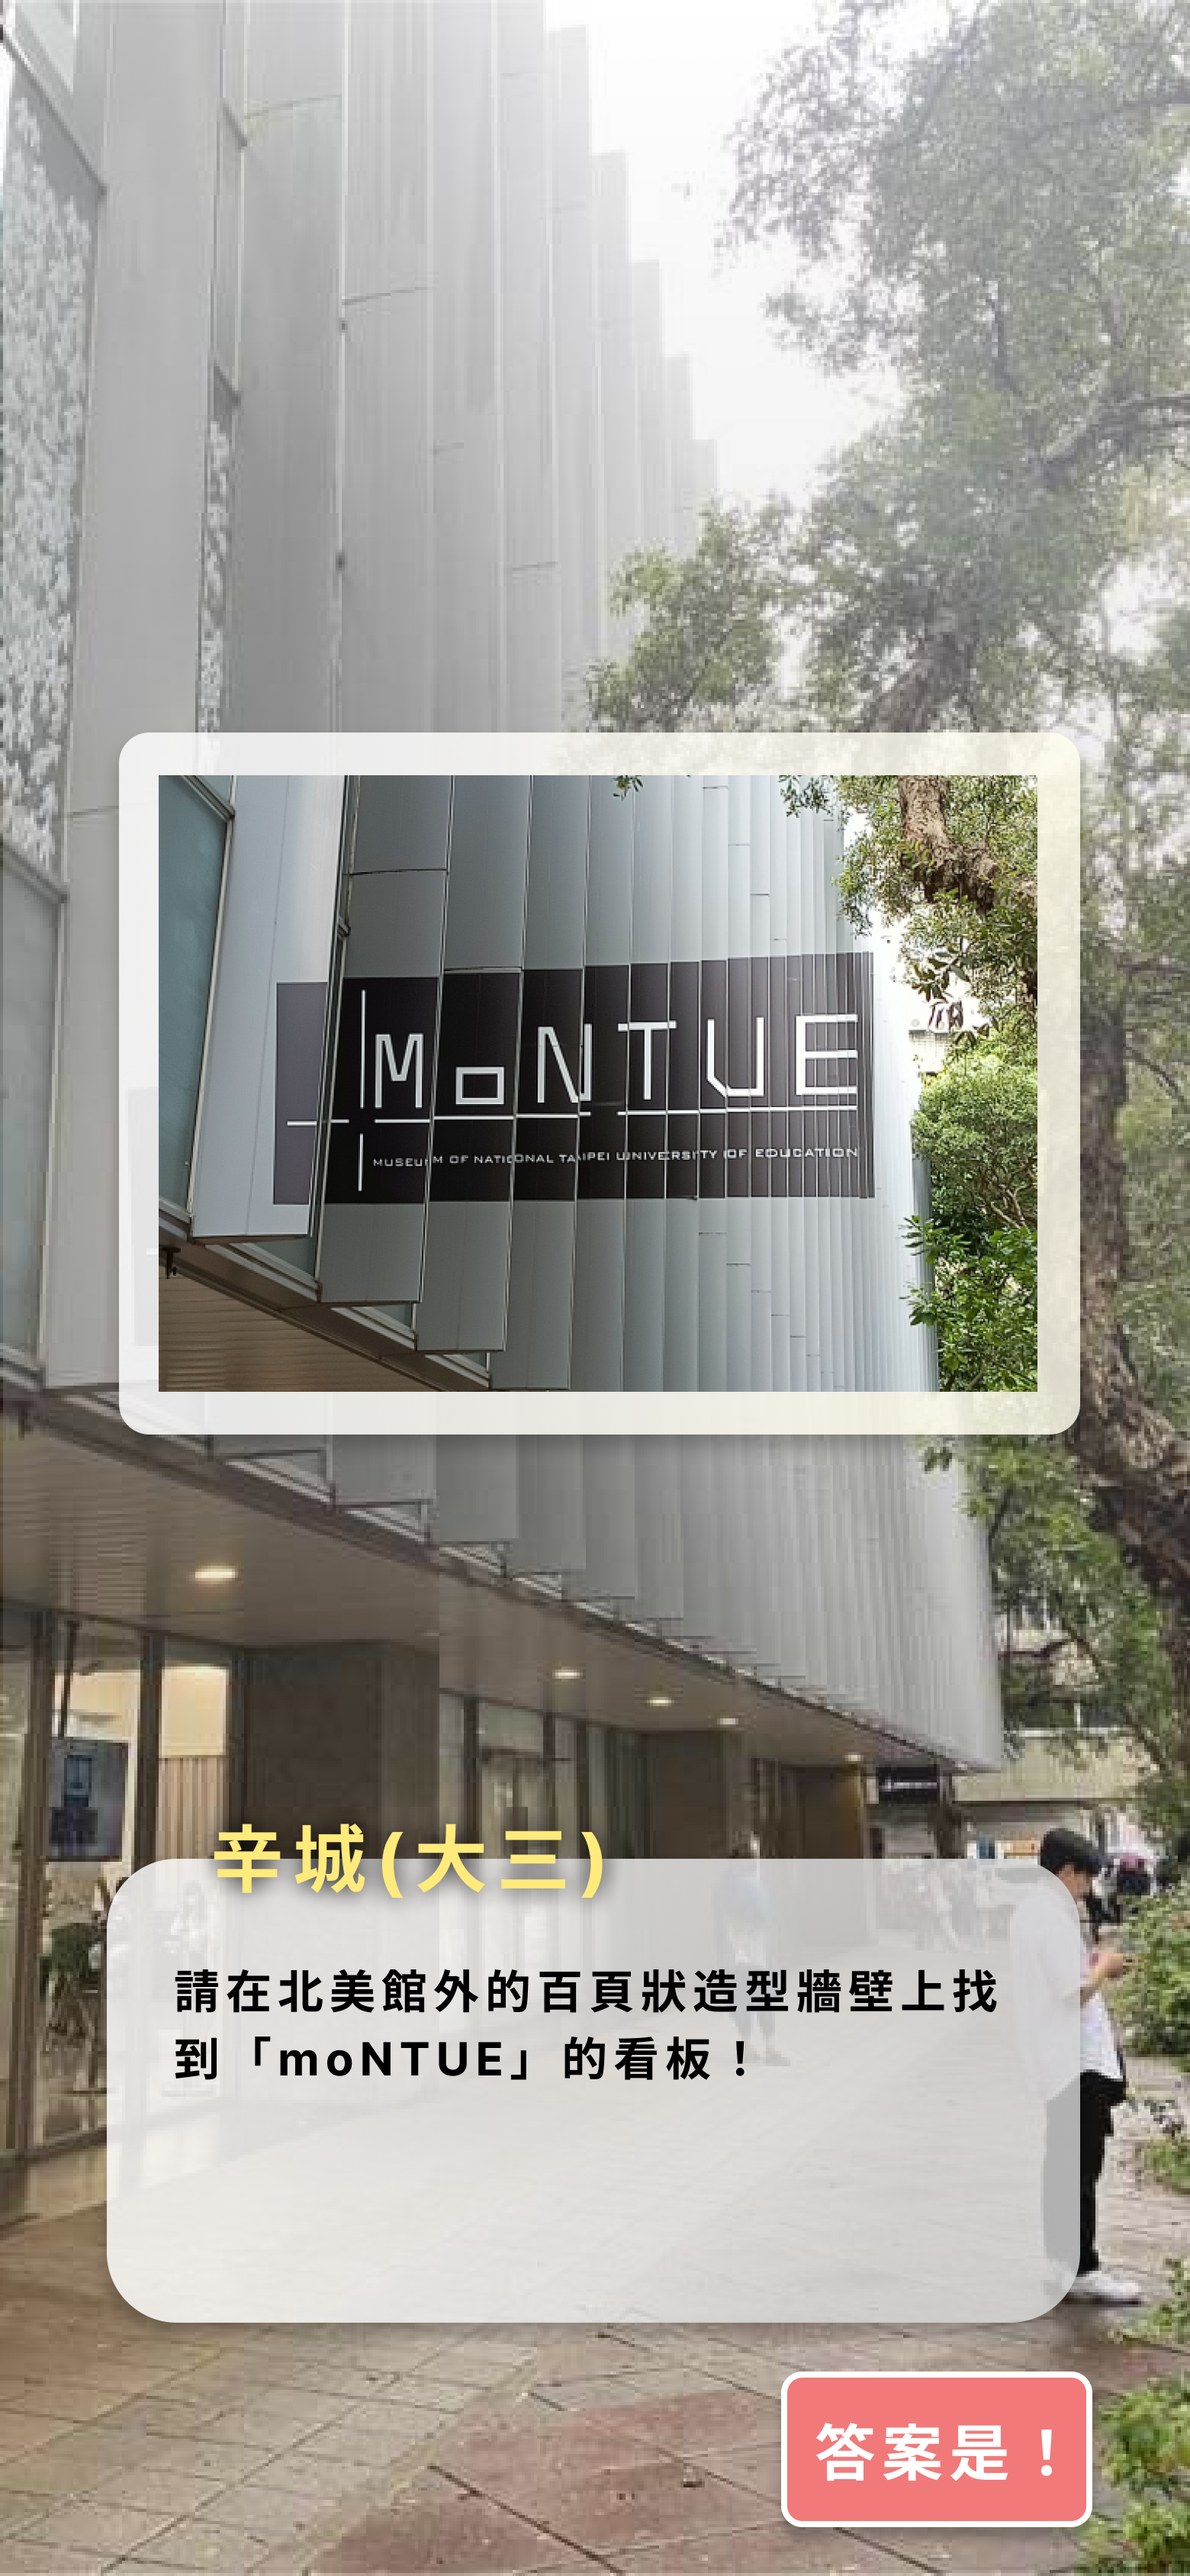
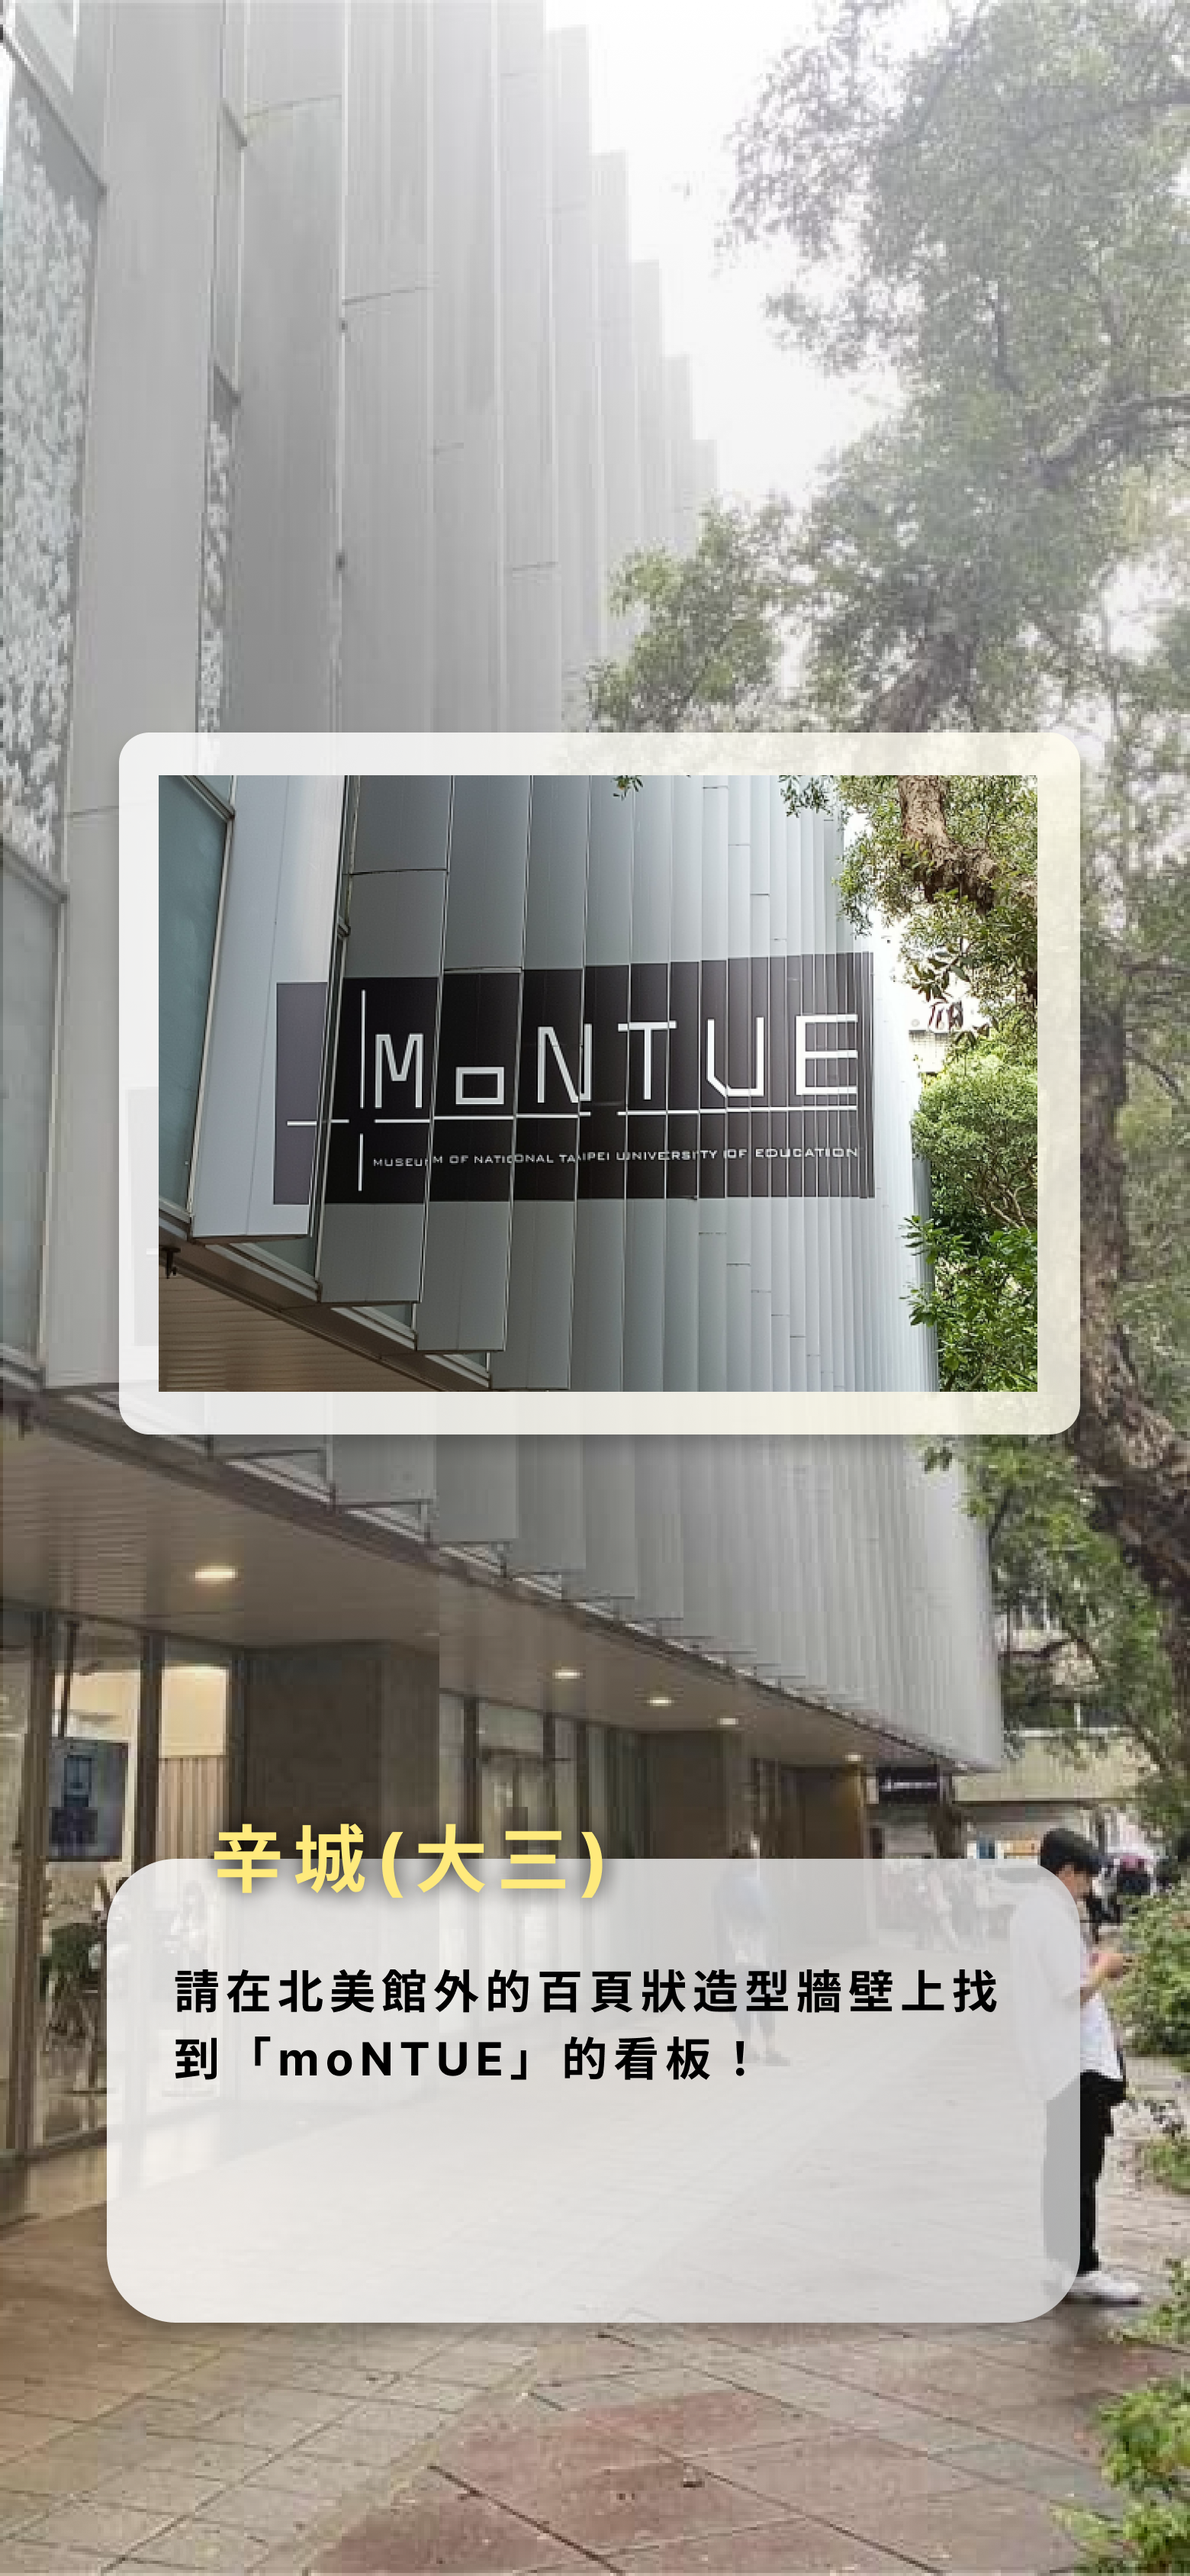
第一關謎題完成

Changed region(s): [[0.6462, 0.902, 0.9231, 0.9953]]

diff --git a/EarthquakeGame/components/screen/Level1/Puzzle1_3Screen.js b/EarthquakeGame/components/screen/Level1/Puzzle1_3Screen.js
@@ -1,0 +1,58 @@
+import React from "react";
+import { StyleSheet, Pressable, View, Platform,Image, ImageBackground } from 'react-native';
+import { useNavigation} from '@react-navigation/native';
+import { Text, VStack, HStack } from '@gluestack-ui/themed';
+import { Button, ButtonText, ButtonIcon, ButtonSpinner, ButtonGroup } from '@gluestack-ui/themed';
+
+const Puzzle1_3Screen = () => {
+    const navigation = useNavigation();
+
+    return(
+        <View>
+            <ImageBackground
+                style={{width: '100%', height: '100%'}}
+                source={require('../../images/10p_3.png')}
+            >
+                <Pressable onPress={() => navigation.navigate('Option1Screen')}>
+                    <Text style={styles.btn}>答案是！</Text>
+                </Pressable>
+                {/* <Pressable onPress={() => navigation.navigate('Option1Screen')}>
+                    <Text style={styles.detection}></Text>
+                </Pressable> */}
+            </ImageBackground>
+        </View>
+
+    );
+}
+
+
+const styles = StyleSheet.create({
+    detection: { 
+        height:'60%', 
+        width:'100%', 
+        marginTop:'80%',
+        backgroundColor:'transparent', 
+        color:'#fff'
+    },
+    btn: { 
+        marginTop:760,
+        marginLeft:280,
+        height: 50, 
+        width: 100, 
+        backgroundColor: '#FF8787', 
+        color: '#fff', 
+        fontSize:20,
+        fontWeight:'bold',
+       
+        paddingLeft:15,
+        paddingVertical:10,
+        borderRadius:7,
+        borderWidth:2,
+        borderColor:'#fff',
+        shadowColor:'#000',
+        shadowOpacity: 0.2,
+        elevation: 7,
+    }
+})
+
+export default Puzzle1_3Screen;

diff --git a/EarthquakeGame/components/navigation/index.js b/EarthquakeGame/components/navigation/index.js
@@ -24,6 +24,8 @@ import Talk1_2Screen from "../screen/Level1/Talk1_2Screen";
 import Talk1_3Screen from "../screen/Level1/Talk1_3Screen";
 import Talk1_4Screen from "../screen/Level1/Talk1_4Screen";
 import Puzzle1Screen from "../screen/Level1/Puzzle1Screen";
+import Puzzle1_2Screen from "../screen/Level1/Puzzle1_2Screen";
+import Puzzle1_3Screen from "../screen/Level1/Puzzle1_3Screen";
 import Option1Screen from "../screen/Level1/Option1Screen";
 import RightCG1Screen from "../screen/Level1/RightCG1Screen";
 import WrongCG1Screen from "../screen/Level1/WrongCG1Screen";
@@ -146,6 +148,14 @@ const HomeStack = ({ navigation }) => {
             <Stack.Screen
                 name="Puzzle1Screen"
                 component={Puzzle1Screen}
+            />
+            <Stack.Screen
+                name="Puzzle1_2Screen"
+                component={Puzzle1_2Screen}
+            />
+            <Stack.Screen
+                name="Puzzle1_3Screen"
+                component={Puzzle1_3Screen}
             />
             <Stack.Screen
                 name="Option1Screen"

diff --git a/EarthquakeGame/components/screen/Level1/Puzzle1_2Screen.js b/EarthquakeGame/components/screen/Level1/Puzzle1_2Screen.js
@@ -4,17 +4,17 @@ import { useNavigation} from '@react-navigation/native';
 import { Text, VStack, HStack } from '@gluestack-ui/themed';
 import { Button, ButtonText, ButtonIcon, ButtonSpinner, ButtonGroup } from '@gluestack-ui/themed';
 
-const Puzzle1Screen = () => {
+const Puzzle1_2Screen = () => {
     const navigation = useNavigation();
 
     return(
         <View>
             <ImageBackground
                 style={{width: '100%', height: '100%'}}
-                source={require('../../images/10p.png')}
+                source={require('../../images/10p_2.png')}
             >
                 
-                <Pressable onPress={() => navigation.navigate('Puzzle1_2Screen')}>
+                <Pressable onPress={() => navigation.navigate('Puzzle1_3Screen')}>
                     <Text style={styles.detection}></Text>
                 </Pressable>
             </ImageBackground>
@@ -34,4 +34,4 @@ const styles = StyleSheet.create({
     }
 })
 
-export default Puzzle1Screen;
+export default Puzzle1_2Screen;
